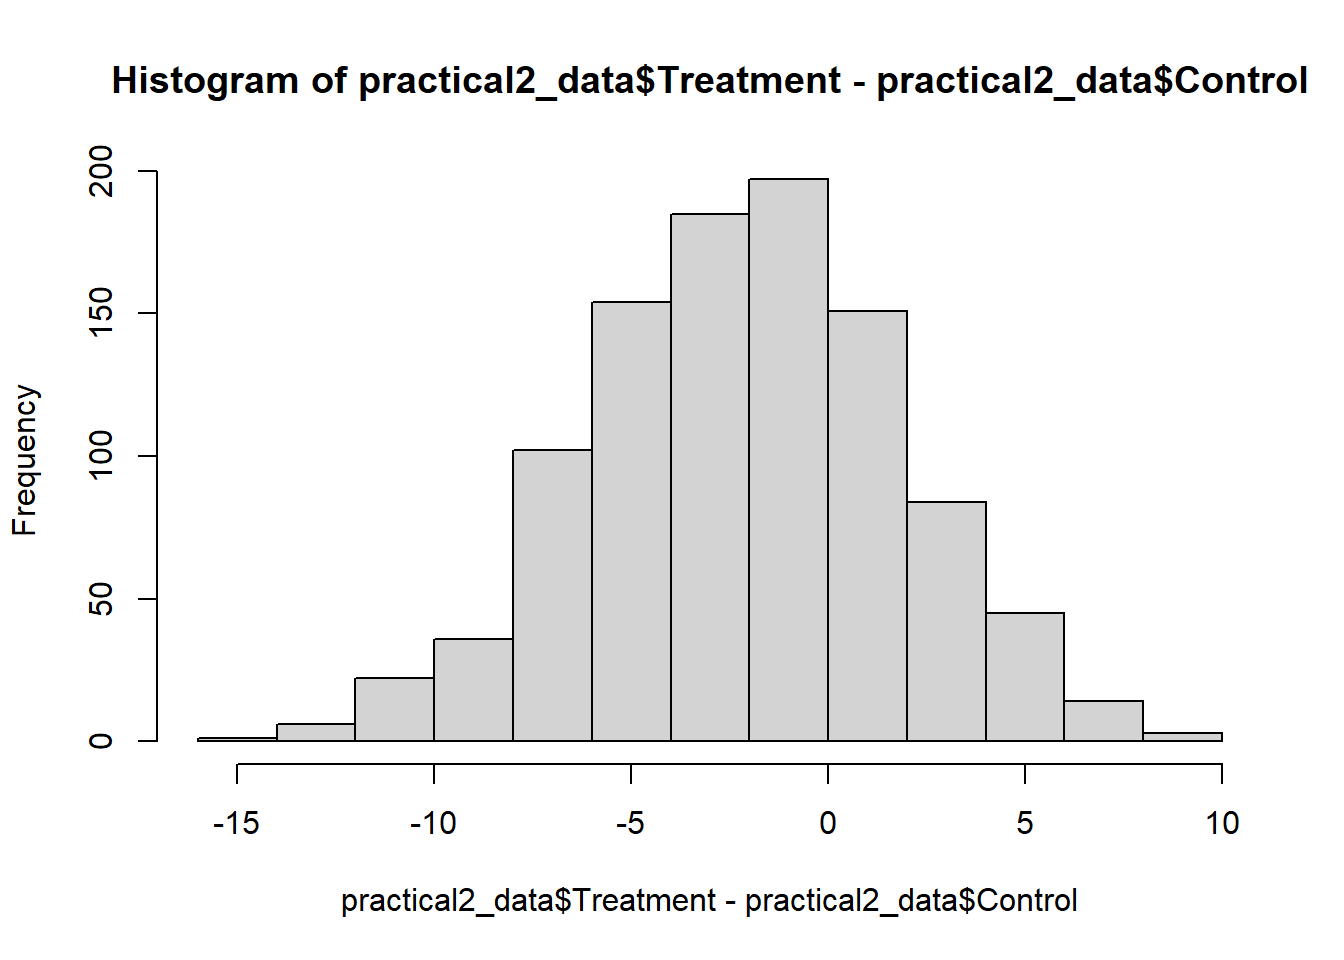
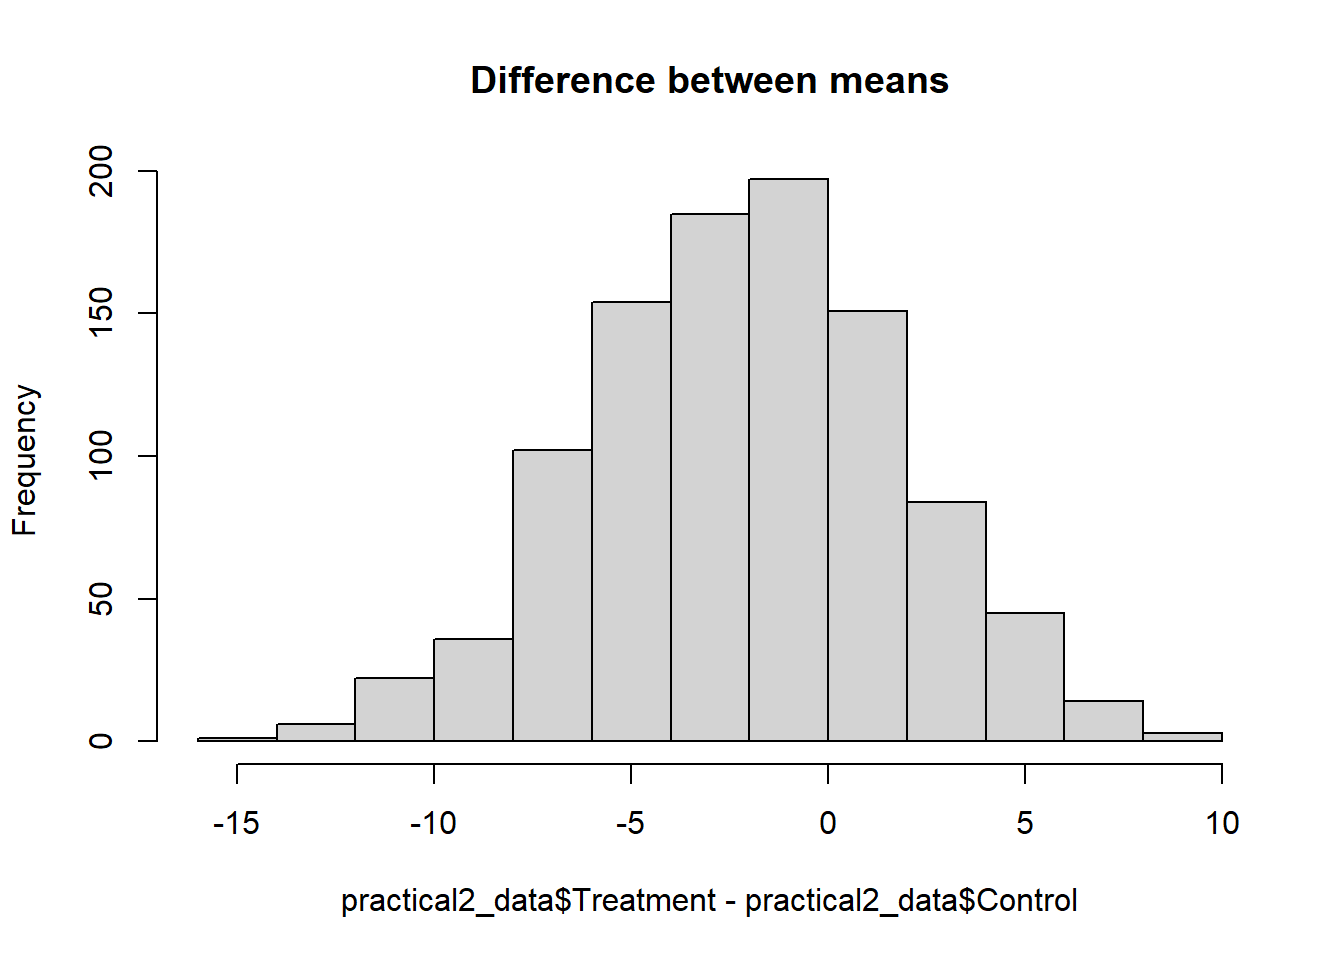
practicals 1 and 2

Changed region(s): [[0.0625, 0.0625, 0.9688, 0.125]]

diff --git a/docs/practicals/practical2.html b/docs/practicals/practical2.html
@@ -126,10 +126,10 @@ How to approach this practical session
 <li>Have RStudio open and ready to use.</li>
 <li>Be sure to read the contextual information and instructions carefully. This information is necessary to complete the tasks.</li>
 <li>Complete the tasks as you go along - they are labelled “Task”.</li>
-<li>Some of the code you need will be completed, some will be partially completed. You can copy and paste code examples into your script using the copy icon <i class="fa-solid fa-clipboard" aria-label="clipboard"></i> which appears when you hover over the code.</li>
+<li>Some of the code you need will be completed, some will be partially completed, some you will need to do yourself. You can copy code examples from this page by clicking on the clipboard icon <i class="fa-solid fa-clipboard" aria-label="clipboard"></i> which appears when you hover over the code examples.</li>
 <li>Buttons to press in your keyboard are shown like this: <pc>Ctrl + S</pc> or <mac>Cmd + S</mac>.</li>
 <li>Menu items to click in R Studio are shown like this: <if>File -&gt; Save</if>. Panes or Tabs in R Studio are also shown like this: <if>Environment</if>.</li>
-<li>Boxes with a drop down arrow <i class="fa-solid fa-square-caret-down" aria-label="square-caret-down"></i> can be collapsed to hide the information inside them. You can also click on the arrow to expand them.</li>
+<li>On this page, boxes with a drop down arrow <i class="fa-solid fa-square-caret-down" aria-label="square-caret-down"></i> can be collapsed to hide the information inside them. You can also click on the <i class="fa-solid fa-square-caret-right" aria-label="square-caret-right"></i> arrow to expand the section.</li>
 </ol>
 </div>
 </div>
@@ -171,7 +171,7 @@ Download the data for this practical
 <dl class="code-annotation-container-grid">
 <dt data-target-cell="annotated-cell-1" data-target-annotation="1">1</dt>
 <dd>
-<span data-code-lines="1" data-code-annotation="1" data-code-cell="annotated-cell-1">Note that we are using the dollar “$” sign to access the columns of the data frame.</span>
+<span data-code-lines="1" data-code-cell="annotated-cell-1" data-code-annotation="1">Note that we are using the dollar “$” sign to access the columns of the data frame.</span>
 </dd>
 </dl>
 </div>
@@ -182,15 +182,15 @@ Download the data for this practical
 <i class="callout-icon"></i>
 </div>
 <div class="callout-title-container flex-fill">
-Visualse the difference beetween the means?
+Visualse the difference between the means?
 </div>
 <div class="callout-btn-toggle d-inline-block border-0 py-1 ps-1 pe-0 float-end"><i class="callout-toggle"></i></div>
 </div>
 <div id="callout-3" class="callout-3-contents callout-collapse collapse">
 <div class="callout-body-container callout-body">
-<p>We can visualise the difference between the means by plotting the data. We can do this using a histogram. To do this, we can use the following code:</p>
+<p>We can visualise the difference between the means by plotting the data. We will learn how to do this in a later session. For now (if you want to), you can just run the code below to see the difference between the means.</p>
 <div class="cell" data-layout-align="center">
-<div class="sourceCode cell-code" id="cb2"><pre class="sourceCode r code-with-copy"><code class="sourceCode r"><span id="cb2-1"><a href="#cb2-1" aria-hidden="true" tabindex="-1"></a><span class="fu">hist</span>(practical2_data<span class="sc">$</span>Treatment <span class="sc">-</span> practical2_data<span class="sc">$</span>Control)</span></code><button title="Copy to Clipboard" class="code-copy-button"><i class="bi"></i></button></pre></div>
+<div class="sourceCode cell-code" id="cb2"><pre class="sourceCode r code-with-copy"><code class="sourceCode r"><span id="cb2-1"><a href="#cb2-1" aria-hidden="true" tabindex="-1"></a><span class="fu">hist</span>(practical2_data<span class="sc">$</span>Treatment <span class="sc">-</span> practical2_data<span class="sc">$</span>Control, <span class="at">main =</span> <span class="st">"Difference between means"</span>) </span></code><button title="Copy to Clipboard" class="code-copy-button"><i class="bi"></i></button></pre></div>
 <div class="cell-output-display">
 <div class="quarto-figure quarto-figure-center">
 <figure class="figure">
@@ -224,15 +224,15 @@ Visualse the difference beetween the means?
 <dl class="code-annotation-container-grid">
 <dt data-target-cell="annotated-cell-2" data-target-annotation="1">1</dt>
 <dd>
-<span data-code-lines="2" data-code-annotation="1" data-code-cell="annotated-cell-2">This code calculates the standard error of the Treatment group. sd() is the function to calculate the standard deviation. length() is the function to calculate the number of elements in a vector.</span>
+<span data-code-lines="2" data-code-cell="annotated-cell-2" data-code-annotation="1">This code calculates the standard error of the Treatment group. sd() is the function to calculate the standard deviation. length() is the function to calculate the number of elements in a vector.</span>
 </dd>
 <dt data-target-cell="annotated-cell-2" data-target-annotation="2">2</dt>
 <dd>
-<span data-code-lines="4" data-code-annotation="2" data-code-cell="annotated-cell-2">You need to do the same for the Control group.</span>
+<span data-code-lines="4" data-code-cell="annotated-cell-2" data-code-annotation="2">You need to do the same for the Control group.</span>
 </dd>
 <dt data-target-cell="annotated-cell-2" data-target-annotation="3">3</dt>
 <dd>
-<span data-code-lines="6" data-code-annotation="3" data-code-cell="annotated-cell-2">Then you need to add them together.</span>
+<span data-code-lines="6" data-code-cell="annotated-cell-2" data-code-annotation="3">Then you need to add them together.</span>
 </dd>
 </dl>
 </div>
@@ -295,7 +295,8 @@ What does the confidence interval tell us?
 </div>
 <div class="callout-body-container callout-body">
 <p>The confidence interval tells us the range of values that we can be confident that the true value (difference between the means) lies within.</p>
-<p>A common misunderstanding about CIs is that for say a 95% CI, there is a 95% probability that the true population mean lies between the values. A correct interpretation is that if we were to repeat the study many times and made confidence intervals for each of the result, then the true population mean would be present in 95% of those confidence intervals.</p>
+<p>A common misunderstanding about CIs is to say that for a 95% CI, there is a 95% probability that the true population mean lies between the values - this is incorrect.</p>
+<p>A correct interpretation is that if we were to repeat the study many times and made confidence intervals for each of the result, then the true population mean would be present in 95% of those confidence intervals.</p>
 <p><strong>Importantly</strong>: If the confidence interval includes zero, then we cannot reject the null hypothesis. If the confidence interval does not include zero, then we can reject the null hypothesis (at <span class="math inline">\(\alpha\)</span> = 0.05).</p>
 </div>
 </div>
@@ -342,8 +343,8 @@ Includes zero?
 <p>As an exercise, we will do this step by step:</p>
 <p>Step 1:</p>
 <ul>
-<li>calculate sample size of group 1 - 1</li>
-<li>calculate the variance of group 1</li>
+<li>calculate sample size of group1 - 1 (i.e., minus 1)</li>
+<li>calculate the variance of group1</li>
 <li>Multiply these two together</li>
 </ul>
 <div class="callout callout-style-default callout-tip callout-titled">
@@ -364,8 +365,8 @@ Tip
 </div>
 <p>Step 2:</p>
 <ul>
-<li>calculate sample size of group 2 - 1</li>
-<li>calculate the variance of group 2</li>
+<li>calculate sample size of group2 - 1 (i.e., minus 1)</li>
+<li>calculate the variance of group2</li>
 <li>Multiply these two together</li>
 </ul>
 <div class="webex-check webex-box">
@@ -373,14 +374,14 @@ Tip
 </div>
 <p>Step 3:</p>
 <ul>
-<li>Add these two together</li>
+<li>Add the results of step 1 and step 2 together</li>
 </ul>
 <div class="webex-check webex-box">
 <p>The result of this step is: <input class="webex-solveme nospaces" size="16" data-answer="[&quot;1984.27432977808&quot;]"></p>
 </div>
 <p>Step 4:</p>
 <ul>
-<li>calculate sample size of group 1 + sample size of group 2 - 2</li>
+<li>calculate sample size of group 1 + sample size of group 2 - 2 (i.e., add the two sample sizes together and then minus 2)</li>
 </ul>
 <div class="webex-check webex-box">
 <p>The result of this step is: <input class="webex-solveme nospaces" size="4" data-answer="[&quot;1998&quot;]"></p>
@@ -393,6 +394,19 @@ Tip
 <p>The result of this step is: <input class="webex-solveme nospaces" size="17" data-answer="[&quot;0.993130295184222&quot;,&quot;.993130295184222&quot;]"></p>
 </div>
 <p>Step 6: - Take the square root of the result of step 5</p>
+<div class="callout callout-style-default callout-tip callout-titled">
+<div class="callout-header d-flex align-content-center">
+<div class="callout-icon-container">
+<i class="callout-icon"></i>
+</div>
+<div class="callout-title-container flex-fill">
+Tip
+</div>
+</div>
+<div class="callout-body-container callout-body">
+<p>Use the sqrt() function to find the square root of a number.</p>
+</div>
+</div>
 <div class="webex-check webex-box">
 <p>The result of this step is: <input class="webex-solveme nospaces" size="17" data-answer="[&quot;0.996559228136603&quot;,&quot;.996559228136603&quot;]"></p>
 </div>
@@ -422,7 +436,7 @@ Task
 </div>
 </div>
 <div class="callout-body-container callout-body">
-<p>Calculate the effect size of is dataset</p>
+<p>Calculate the effect size of the difference between the means.</p>
 </div>
 </div>
 <div class="webex-check webex-box">
@@ -433,7 +447,7 @@ Task
 <section id="calculate-the-sample-size-for-conducting-a-new-study-based-on-this-effect" class="level1">
 <h1>Calculate the sample size for conducting a new study, based on this effect</h1>
 <div class="callout callout-style-default callout-tip callout-titled">
-<div class="callout-header d-flex align-content-center" data-bs-toggle="collapse" data-bs-target=".callout-11-contents" aria-controls="callout-11" aria-expanded="false" aria-label="Toggle callout">
+<div class="callout-header d-flex align-content-center" data-bs-toggle="collapse" data-bs-target=".callout-12-contents" aria-controls="callout-12" aria-expanded="false" aria-label="Toggle callout">
 <div class="callout-icon-container">
 <i class="callout-icon"></i>
 </div>
@@ -442,7 +456,7 @@ Conducting power analysis in R
 </div>
 <div class="callout-btn-toggle d-inline-block border-0 py-1 ps-1 pe-0 float-end"><i class="callout-toggle"></i></div>
 </div>
-<div id="callout-11" class="callout-11-contents callout-collapse collapse">
+<div id="callout-12" class="callout-12-contents callout-collapse collapse">
 <div class="callout-body-container callout-body">
 <p>There are many ways to do power analysis and there are many tools for doing so. We will use the power.t.test() function to conduct a power analysis for a t-test.</p>
 <p>For other study designs, there are other functions. For example, for a one-way ANOVA, you can use the function power.anova.test(). For a correlation, you can use the function power.cor.test(). For a regression, you can use the function power.lm(). For a chi-square test, you can use the function power.prop.test(). For a paired t-test, you can use the function power.t.test() with the argument paired = TRUE.</p>
@@ -468,13 +482,13 @@ Conducting power analysis in R
 <dl class="code-annotation-container-grid">
 <dt data-target-cell="annotated-cell-3" data-target-annotation="1">1</dt>
 <dd>
-<span data-code-lines="1" data-code-annotation="1" data-code-cell="annotated-cell-3">In the above code, replace the word “effectSize” with the effect size you calculated above.</span>
+<span data-code-lines="1" data-code-cell="annotated-cell-3" data-code-annotation="1">In the above code, replace the word “effectSize” with the effect size you calculated above.</span>
 </dd>
 </dl>
 </div>
 </div>
 <div class="callout callout-style-default callout-tip callout-titled">
-<div class="callout-header d-flex align-content-center" data-bs-toggle="collapse" data-bs-target=".callout-12-contents" aria-controls="callout-12" aria-expanded="false" aria-label="Toggle callout">
+<div class="callout-header d-flex align-content-center" data-bs-toggle="collapse" data-bs-target=".callout-13-contents" aria-controls="callout-13" aria-expanded="false" aria-label="Toggle callout">
 <div class="callout-icon-container">
 <i class="callout-icon"></i>
 </div>
@@ -483,7 +497,7 @@ What is power?
 </div>
 <div class="callout-btn-toggle d-inline-block border-0 py-1 ps-1 pe-0 float-end"><i class="callout-toggle"></i></div>
 </div>
-<div id="callout-12" class="callout-12-contents callout-collapse collapse">
+<div id="callout-13" class="callout-13-contents callout-collapse collapse">
 <div class="callout-body-container callout-body">
 <p>Power is the probability of rejecting the null hypothesis when it is false. In other words, it is the probability of finding a significant effect (in your study) when there is a true effect. The higher this value is, the less likely you are to make a type II error (failing to reject the null hypothesis when it is false). 0.8 is a common value for power in power analysis calculations.</p>
 </div>
@@ -504,6 +518,42 @@ Task
 </div>
 <div class="webex-check webex-box">
 <p>The required sample size is: <input class="webex-solveme nospaces" size="16" data-answer="[&quot;27.5704439373071&quot;]"></p>
+</div>
+<div class="callout callout-style-default callout-note callout-titled">
+<div class="callout-header d-flex align-content-center">
+<div class="callout-icon-container">
+<i class="callout-icon"></i>
+</div>
+<div class="callout-title-container flex-fill">
+Task
+</div>
+</div>
+<div class="callout-body-container callout-body">
+<p>Save your script.</p>
+</div>
+</div>
+</section>
+<section id="you-are-done-for-today-fa-hands-clapping" class="level1">
+<h1>You are done for today <i class="fa-solid fa-hands-clapping" aria-label="hands-clapping"></i></h1>
+<div class="callout callout-style-default callout-tip callout-titled">
+<div class="callout-header d-flex align-content-center" data-bs-toggle="collapse" data-bs-target=".callout-16-contents" aria-controls="callout-16" aria-expanded="false" aria-label="Toggle callout">
+<div class="callout-icon-container">
+<i class="callout-icon"></i>
+</div>
+<div class="callout-title-container flex-fill">
+Further resources for conducting analysis in R
+</div>
+<div class="callout-btn-toggle d-inline-block border-0 py-1 ps-1 pe-0 float-end"><i class="callout-toggle"></i></div>
+</div>
+<div id="callout-16" class="callout-16-contents callout-collapse collapse">
+<div class="callout-body-container callout-body">
+<ul>
+<li><p><a href="https://christopherjwilson.github.io/APRM23/descriptives.html">Exploratory and descriptive analysis</a></p></li>
+<li><p><a href="https://www.statmethods.net/stats/descriptives.html">Basic statistics in R</a></p></li>
+<li><p><a href="https://www.statmethods.net/stats/power.html">Power analysis in R</a></p></li>
+</ul>
+</div>
+</div>
 </div>
 </section>
 

diff --git a/docs/practicals/practical1.html b/docs/practicals/practical1.html
@@ -329,10 +329,10 @@ How to approach this practical session
 <li>Have RStudio open and ready to use.</li>
 <li>Be sure to read the contextual information and instructions carefully. This information is necessary to complete the tasks.</li>
 <li>Complete the tasks as you go along - they are labelled “Task”.</li>
-<li>Some of the code you need will be completed, some will be partially completed. You can copy and paste code examples into your script using the copy icon <i class="fa-solid fa-clipboard" aria-label="clipboard"></i> which appears when you hover over the code.</li>
+<li>Some of the code you need will be completed, some will be partially completed, some you will need to do yourself. You can copy code examples from this page by clicking on the clipboard icon <i class="fa-solid fa-clipboard" aria-label="clipboard"></i> which appears when you hover over the code examples.</li>
 <li>Buttons to press in your keyboard are shown like this: <pc>Ctrl + S</pc> or <mac>Cmd + S</mac>.</li>
 <li>Menu items to click in R Studio are shown like this: <if>File -&gt; Save</if>. Panes or Tabs in R Studio are also shown like this: <if>Environment</if>.</li>
-<li>Boxes with a drop down arrow <i class="fa-solid fa-square-caret-down" aria-label="square-caret-down"></i> can be collapsed to hide the information inside them. You can also click on the arrow to expand them.</li>
+<li>On this page, boxes with a drop down arrow <i class="fa-solid fa-square-caret-down" aria-label="square-caret-down"></i> can be collapsed to hide the information inside them. You can also click on the <i class="fa-solid fa-square-caret-right" aria-label="square-caret-right"></i> arrow to expand the section.</li>
 </ol>
 </div>
 </div>
@@ -442,11 +442,11 @@ Task
 <dl class="code-annotation-container-grid">
 <dt data-target-cell="annotated-cell-2" data-target-annotation="1">1</dt>
 <dd>
-<span data-code-lines="2" data-code-annotation="1" data-code-cell="annotated-cell-2">This is comment that will be ignored by R. It is used to describe what the code does.</span>
+<span data-code-lines="2" data-code-cell="annotated-cell-2" data-code-annotation="1">This is comment that will be ignored by R. It is used to describe what the code does.</span>
 </dd>
 <dt data-target-cell="annotated-cell-2" data-target-annotation="2">2</dt>
 <dd>
-<span data-code-lines="4" data-code-annotation="2" data-code-cell="annotated-cell-2">This code is a command that tells R to add 23 and 52. However, it will not do anything until you tell R to run it.</span>
+<span data-code-lines="4" data-code-cell="annotated-cell-2" data-code-annotation="2">This code is a command that tells R to add 23 and 52. However, it will not do anything until you tell R to run it.</span>
 </dd>
 </dl>
 <div class="callout callout-style-default callout-note callout-titled">
@@ -489,7 +489,7 @@ Task
 <dl class="code-annotation-container-grid">
 <dt data-target-cell="annotated-cell-3" data-target-annotation="1">1</dt>
 <dd>
-<span data-code-lines="3" data-code-annotation="1" data-code-cell="annotated-cell-3">This code tells R to add 23 and 52 and save the result to an object called <strong>result</strong>. The result of the code on the right side of the &lt;- is assigned to the object on the left side of the &lt;-.</span>
+<span data-code-lines="3" data-code-cell="annotated-cell-3" data-code-annotation="1">This code tells R to add 23 and 52 and save the result to an object called <strong>result</strong>. The result of the code on the right side of the &lt;- is assigned to the object on the left side of the &lt;-.</span>
 </dd>
 </dl>
 <p>You can save many things as objects including the results of analyses, data, and graphs. You will see stored objects in the <if>environment<if> pane in R Studio.</if></if></p>
@@ -536,7 +536,7 @@ Task
 <dl class="code-annotation-container-grid">
 <dt data-target-cell="annotated-cell-4" data-target-annotation="1">1</dt>
 <dd>
-<span data-code-lines="3" data-code-annotation="1" data-code-cell="annotated-cell-4">In the code above, the function <strong>mean()</strong> is used to calculate the mean of the object <strong>result</strong>.</span>
+<span data-code-lines="3" data-code-cell="annotated-cell-4" data-code-annotation="1">In the code above, the function <strong>mean()</strong> is used to calculate the mean of the object <strong>result</strong>.</span>
 </dd>
 </dl>
 <p>The object <strong>result</strong> (which was created earlier) is the argument for the function <strong>mean()</strong>.</p>
@@ -595,7 +595,7 @@ Download the data for this section
 <dl class="code-annotation-container-grid">
 <dt data-target-cell="annotated-cell-5" data-target-annotation="1">1</dt>
 <dd>
-<span data-code-lines="1" data-code-annotation="1" data-code-cell="annotated-cell-5">This code tells R to import the data in the file <strong>practical1_data.csv</strong> and save it to an object called <strong>data</strong>. The object <strong>data</strong> could be named anything you like, but it is a good idea to give it a name that is related to the data you are importing.</span>
+<span data-code-lines="1" data-code-cell="annotated-cell-5" data-code-annotation="1">This code tells R to import the data in the file <strong>practical1_data.csv</strong> and save it to an object called <strong>data</strong>. The object <strong>data</strong> could be named anything you like, but it is a good idea to give it a name that is related to the data you are importing.</span>
 </dd>
 </dl>
 <p>You can also use the menu to import data. To do this, click on the <if>Import Dataset</if> button and select the type of data you want to import. For example, to import the data in the file <strong>practical1_data.csv</strong>, you would click on <if>From Text (readr)</if> and then select the file <strong>practical1_data.csv</strong>.</p>
@@ -636,7 +636,7 @@ Task
 <dl class="code-annotation-container-grid">
 <dt data-target-cell="annotated-cell-6" data-target-annotation="1">1</dt>
 <dd>
-<span data-code-lines="1" data-code-annotation="1" data-code-cell="annotated-cell-6">When you run this code, you should see the dataset in a new window of R Studio.</span>
+<span data-code-lines="1" data-code-cell="annotated-cell-6" data-code-annotation="1">When you run this code, you should see the dataset in a new window of R Studio.</span>
 </dd>
 </dl>
 <div class="callout callout-style-default callout-note callout-titled">
@@ -670,7 +670,7 @@ Tip
 <dl class="code-annotation-container-grid">
 <dt data-target-cell="annotated-cell-7" data-target-annotation="1">1</dt>
 <dd>
-<span data-code-lines="1" data-code-annotation="1" data-code-cell="annotated-cell-7">When you run this code, you should see the column <strong>age</strong> from the data frame <strong>data</strong> printed in the console.</span>
+<span data-code-lines="1" data-code-cell="annotated-cell-7" data-code-annotation="1">When you run this code, you should see the column <strong>age</strong> from the data frame <strong>data</strong> printed in the console.</span>
 </dd>
 </dl>
 <p>You can use data frame columns in functions. For example, to calculate the mean of the column <strong>age</strong> in the data frame <strong>data</strong>, you would use the following command:</p>
@@ -678,7 +678,7 @@ Tip
 <dl class="code-annotation-container-grid">
 <dt data-target-cell="annotated-cell-8" data-target-annotation="1">1</dt>
 <dd>
-<span data-code-lines="1" data-code-annotation="1" data-code-cell="annotated-cell-8">When you run this code, you should see the mean of the column <strong>age</strong> from the data frame <strong>data</strong> printed in the console.</span>
+<span data-code-lines="1" data-code-cell="annotated-cell-8" data-code-annotation="1">When you run this code, you should see the mean of the column <strong>age</strong> from the data frame <strong>data</strong> printed in the console.</span>
 </dd>
 </dl>
 <div class="callout callout-style-default callout-tip callout-titled">
@@ -700,11 +700,11 @@ Don’t overwrite objects accidentally
 <dl class="code-annotation-container-grid">
 <dt data-target-cell="annotated-cell-1" data-target-annotation="1">1</dt>
 <dd>
-<span data-code-lines="2" data-code-annotation="1" data-code-cell="annotated-cell-1">The object <strong>mean_age</strong> is assigned the mean of the column <strong>age</strong> in the data frame <strong>data</strong>.</span>
+<span data-code-lines="2" data-code-cell="annotated-cell-1" data-code-annotation="1">The object <strong>mean_age</strong> is assigned the mean of the column <strong>age</strong> in the data frame <strong>data</strong>.</span>
 </dd>
 <dt data-target-cell="annotated-cell-1" data-target-annotation="2">2</dt>
 <dd>
-<span data-code-lines="3" data-code-annotation="2" data-code-cell="annotated-cell-1">However, the next line of code assigns the mean of the column <strong>id</strong> in the data frame <strong>data</strong> to the object <strong>mean_age</strong>. This overwrites the existing object <strong>mean_age</strong>.</span>
+<span data-code-lines="3" data-code-cell="annotated-cell-1" data-code-annotation="2">However, the next line of code assigns the mean of the column <strong>id</strong> in the data frame <strong>data</strong> to the object <strong>mean_age</strong>. This overwrites the existing object <strong>mean_age</strong>.</span>
 </dd>
 </dl>
 </div>
